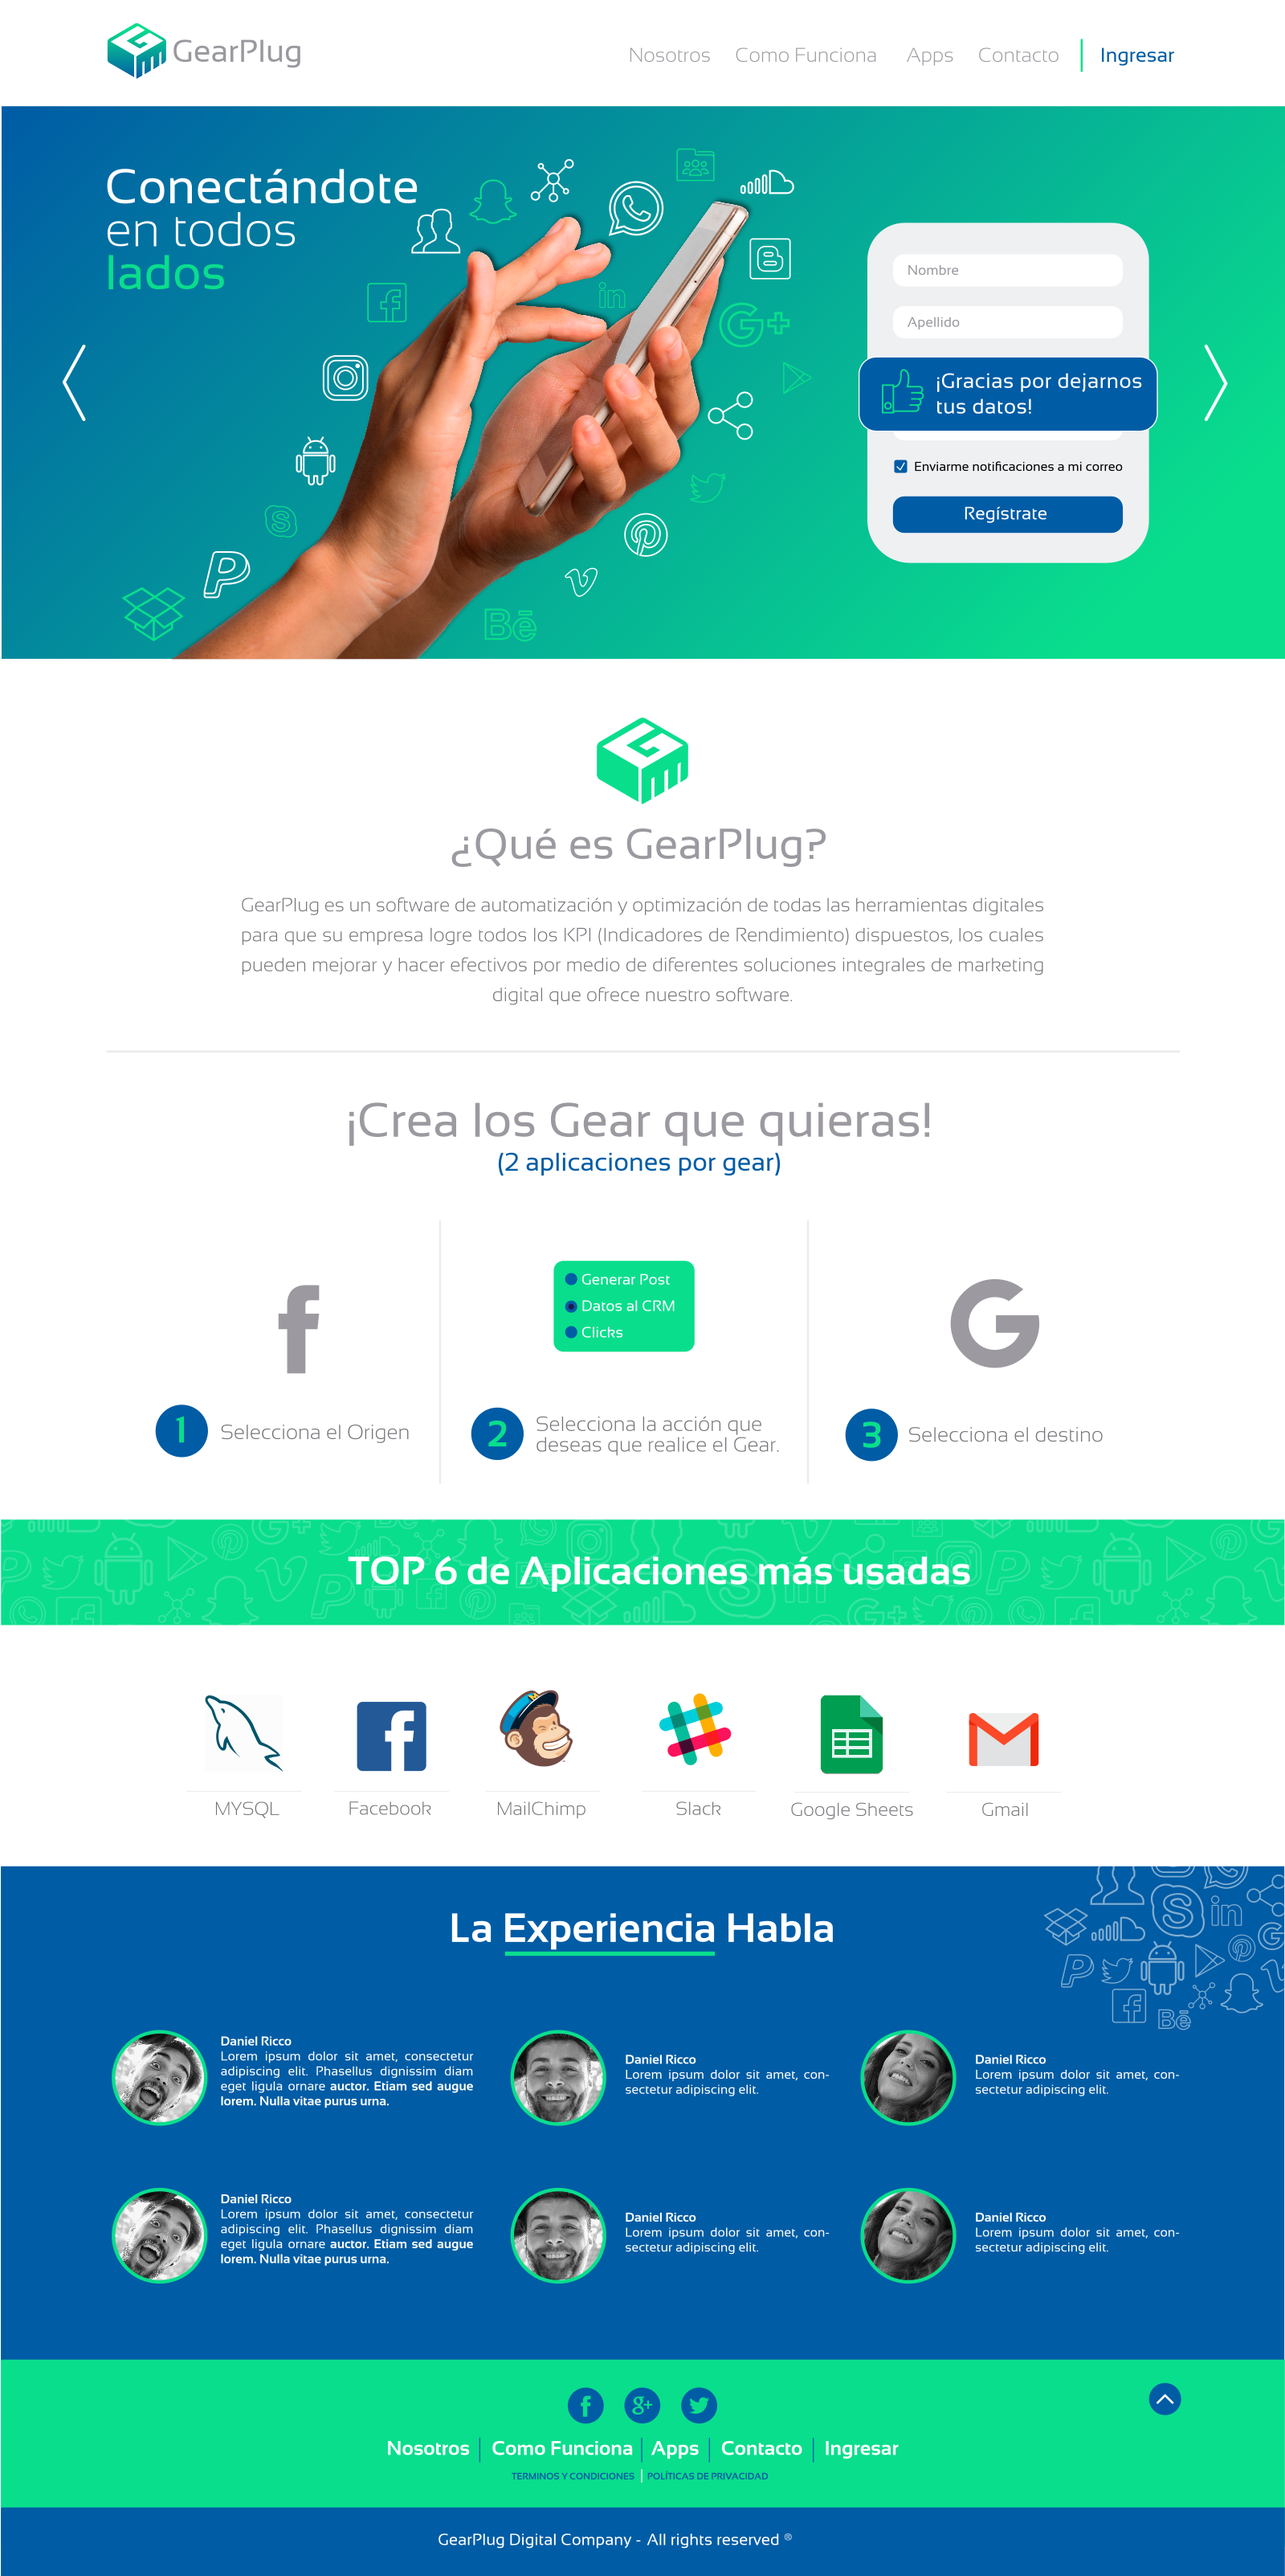
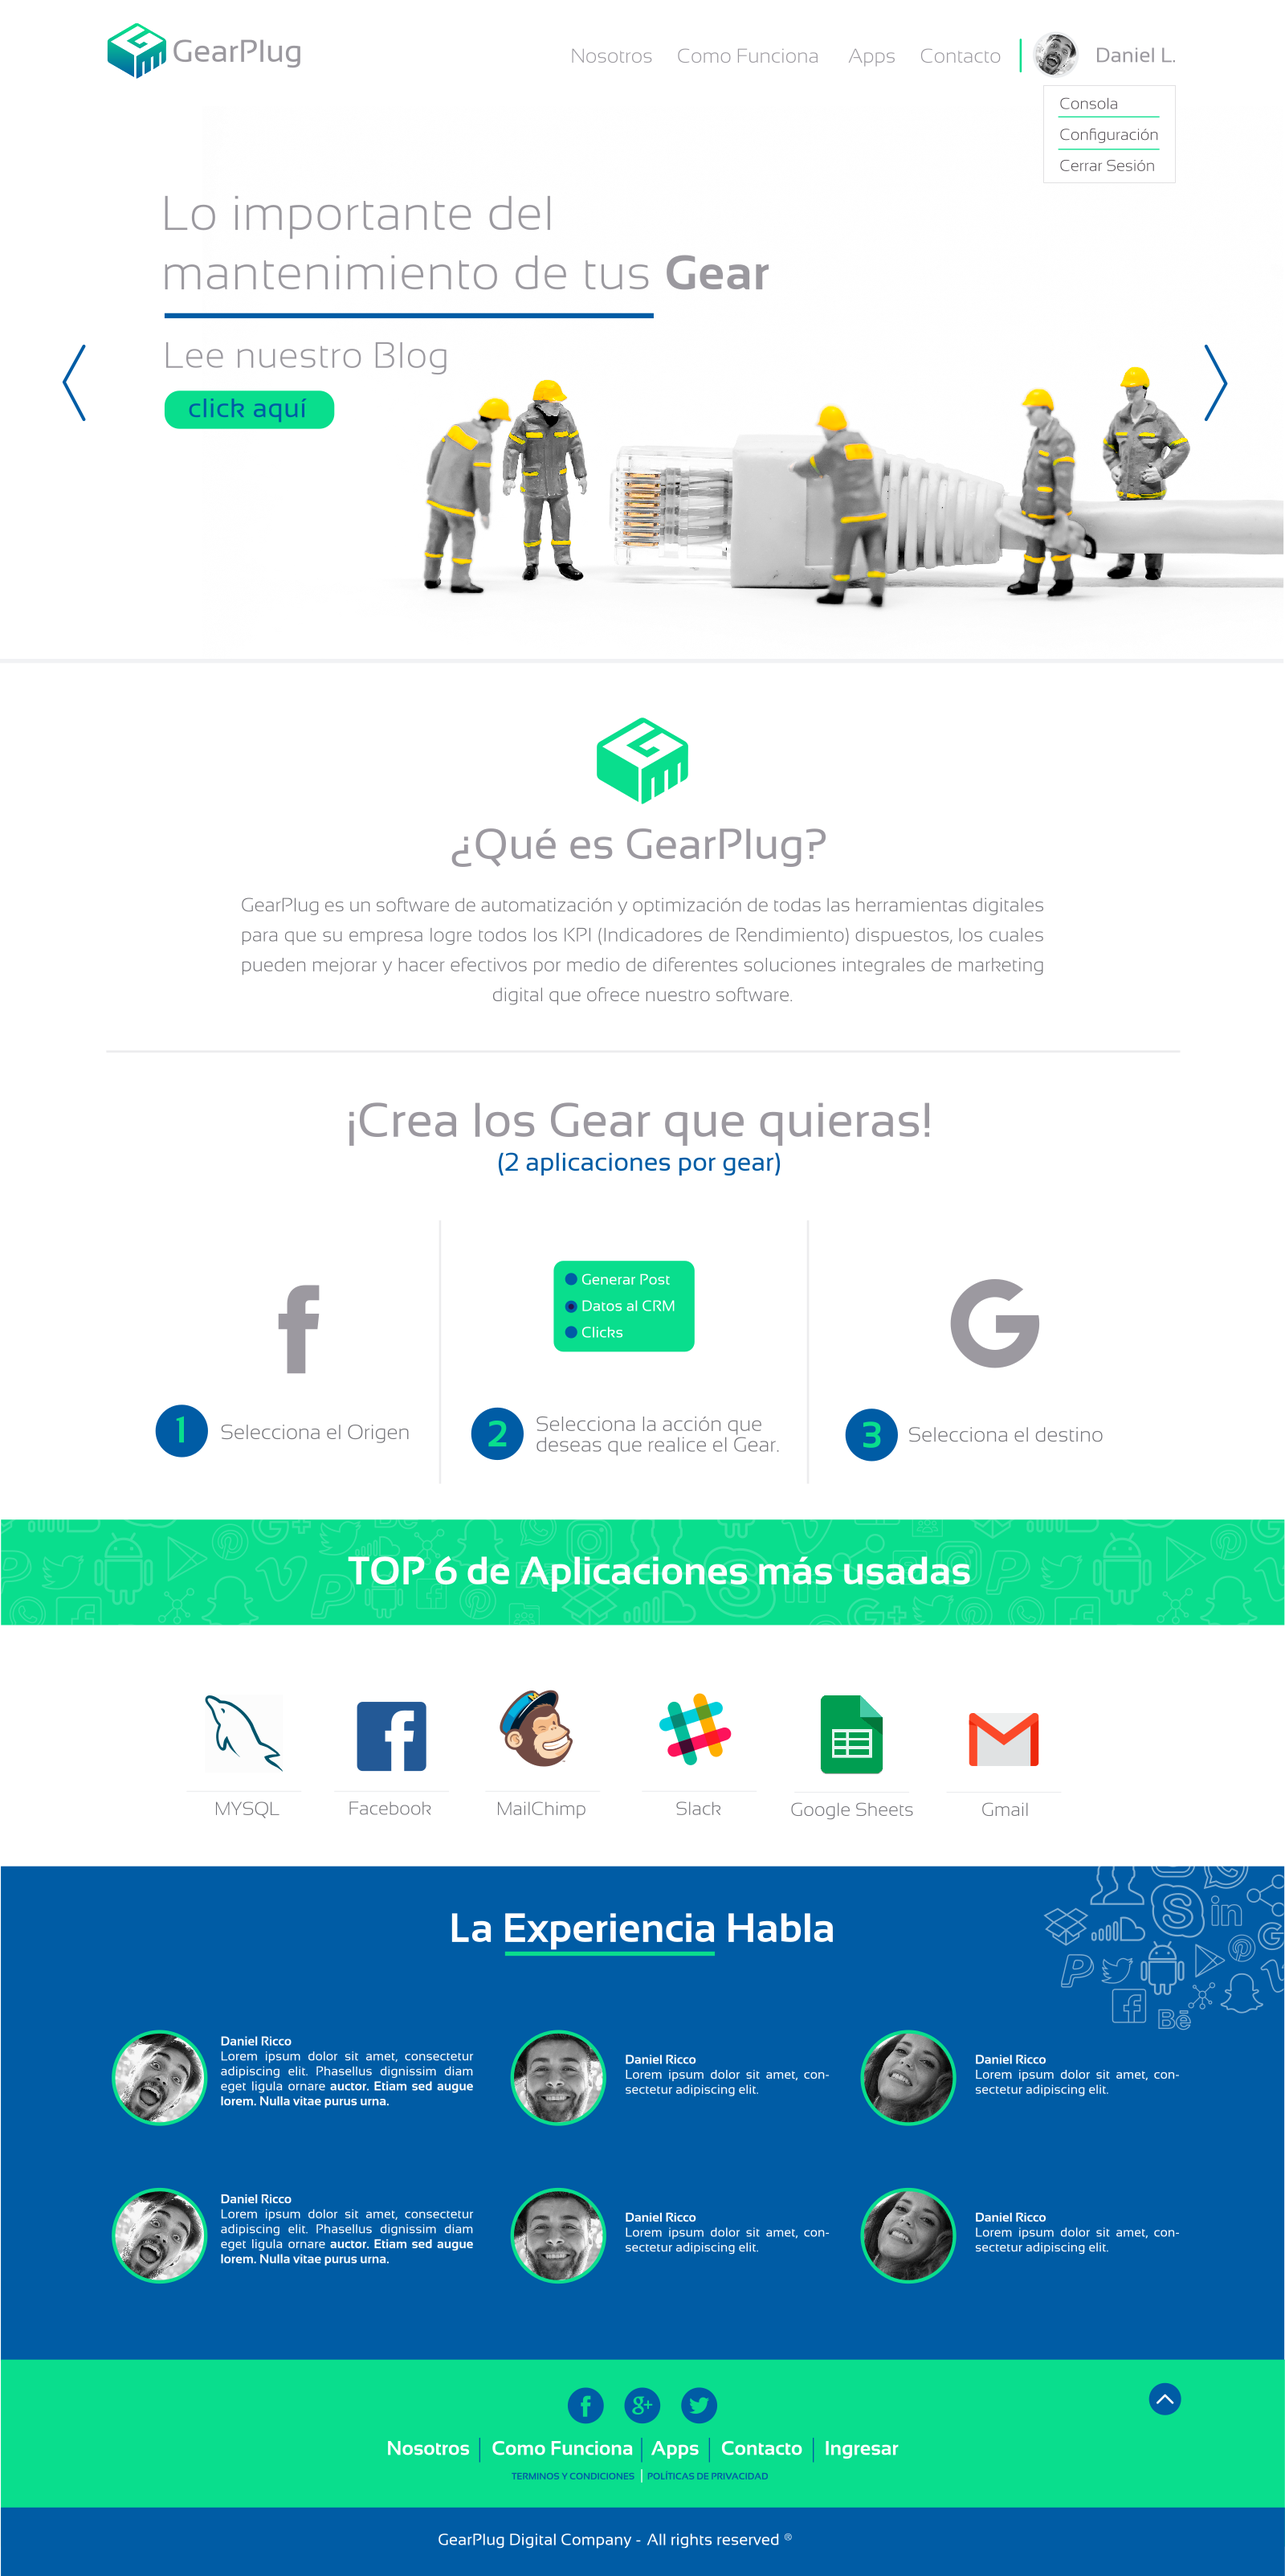
Comentarios y menu - responsive

Changed region(s): [[0.0, 0.0, 1.0, 0.2807]]

diff --git a/templates/landing/index.html b/templates/landing/index.html
@@ -272,33 +272,36 @@
                 return false;
             })
 
-            var showChar = 230;
-            var ellipsestext = "...";
-            var moretext = "Ver más";
-            var lesstext = "Menos";
+            if(window.matchMedia("(min-width: 769px)").matches) {
+                console.log('Entra aqui min');
+                var showChar = 230;
+                var ellipsestext = "...";
+                var moretext = "Ver más";
+                var lesstext = "Menos";
 
-            $('.more').each(function () {
-                var content = $(this).html();
-                if (content.length > showChar) {
-                    var c = content.substr(0, showChar);
-                    var h = content.substr(showChar - 1, content.length - showChar);
-                    var html = c + '<span class="moreellipses">' + ellipsestext + '&nbsp;</span><span class="morecontent"><span>' + h + '</span>&nbsp;&nbsp;<a href="" class="morelink">' + moretext + '</a></span>';
+                $('.more').each(function () {
+                    var content = $(this).html();
+                    if (content.length > showChar) {
+                        var c = content.substr(0, showChar);
+                        var h = content.substr(showChar - 1, content.length - showChar);
+                        var html = c + '<span class="moreellipses">' + ellipsestext + '&nbsp;</span><span class="morecontent"><span>' + h + '</span>&nbsp;&nbsp;<a href="" class="morelink">' + moretext + '</a></span>';
 
-                    $(this).html(html);
-                }
-            });
-            $(".morelink").click(function () {
-                if ($(this).hasClass("less")) {
-                    $(this).removeClass("less");
-                    $(this).html(moretext);
-                } else {
-                    $(this).addClass("less");
-                    $(this).html(lesstext);
-                }
-                $(this).parent().prev().toggle();
-                $(this).prev().toggle();
-                return false;
-            });
+                        $(this).html(html);
+                    }
+                });
+                $(".morelink").click(function () {
+                    if ($(this).hasClass("less")) {
+                        $(this).removeClass("less");
+                        $(this).html(moretext);
+                    } else {
+                        $(this).addClass("less");
+                        $(this).html(lesstext);
+                    }
+                    $(this).parent().prev().toggle();
+                    $(this).prev().toggle();
+                    return false;
+                });
+            }
         })
     </script>
 {% endblock %}

diff --git a/staticfiles/css/landing/style_page.css b/staticfiles/css/landing/style_page.css
@@ -23,12 +23,12 @@
 
 ul.menu{
     list-style-type: none;
-    margin: 2.4% 0 0 0;
+    margin: 2.4% 2.3% 0 0;
 }
 
 ul.menu li{
     display: inline;
-    padding-right: 4.1%;
+    padding-right: 1.5%;
 }
 
 ul.menu.nav li a{
@@ -46,12 +46,13 @@ ul.menu li.menu-login {
     border-left: #09DF8E solid 3px;
     color: #9B999F;
     font-family: 'Sansation';
-    padding: 1.7% 0 1% 3%;
+    padding: 1.3% 0 0 1.2%;
 }
 
 ul.menu li.menu-login a {
     color: #005CA6;
     font-family: 'Sansation';
+    padding-top: 4%;
 }
 
 ul.menu.nav li.menu-login a:hover {
@@ -122,13 +123,13 @@ footer {
 }
 
 li.menu-login.profile img.img-avatar {
-    margin-top: -0.5%;
+    margin-top: -3.6%;
 }
 
 li.menu-login.dropdown.profile.open ul.dropdown-menu {
     border-radius: inherit;
     box-shadow: none;
-    margin: 9.3% 0 0 24.1%;
+    margin: 4.4% 0 0 17.7%;
     padding: 0.7% 0 0.2% 0;
 }
 
@@ -140,6 +141,7 @@ li.menu-login.dropdown.profile.open ul li a {
     color: #4B464B;
     font-family: "Sansation Light";
     font-size: 1.4em;
+    padding: 2.5% 12.3%;
 }
 
 li.menu-login.dropdown.profile ul.dropdown-menu li a:focus, li.menu-login.dropdown.profile ul.dropdown-menu li a:hover {
@@ -178,22 +180,39 @@ li.menu-login.dropdown.profile ul li p{
     border-color: transparent;
 }
 
+ul.navbar-nav {
+    float: right;
+    width: 53.6%;
+}
+
 img.logo_header {
     margin: 11% 0 0 105%;
+}
+
+li.profile.open a{
+    background-color: transparent !important;
 }
 
 @media only screen and (max-width:1600px) {
     li.menu-login.dropdown.profile.open ul.dropdown-menu {
         margin: 10.8% 0 0 22.8%;
     }
+
+    img.logo_header {
+        margin: 11% 0 0 62%;
+    }
 }
 @media only screen and (max-width:1440px) {
     ul.menu {
-        margin: 2.1% 19.5% 0 0;
+        margin: 2.1% 5.5% 0 0;
     }
 
     li.menu-login.dropdown.profile.open ul.dropdown-menu {
         margin: 12.5% 0 0 20.9%;
+    }
+
+    img.logo_header {
+        margin: 11% 0 0 44%;
     }
 }
 

diff --git a/staticfiles/css/landing/index.css b/staticfiles/css/landing/index.css
@@ -414,6 +414,7 @@ a.morelink {
 
     .name11 {
         margin-top: 1.6%;
+        padding-bottom: 10%;
         text-align: justify;
     }
 }
@@ -505,7 +506,14 @@ a.morelink {
 
     img.img-comments {
         margin-bottom: 50%;
-        height: 10%;
+        height: 66%;
+    }
+}
+
+@media only screen and (min-width: 1024px) {
+    .testing {
+        display: table;
+        content: "";
     }
 }
 
@@ -596,7 +604,7 @@ a.morelink {
     }
 
     .title-comments {
-        padding-left: 1%;
+        padding-left: 4%;
         text-align: left;
     }
 
@@ -625,11 +633,13 @@ a.morelink {
         font-size: 2.6em;
         width: 116%;
     }
-}
 
-@media only screen and (min-width: 1024px) {
-    .testing {
-        display: table;
-        content: "";
+    img.img-comments {
+        height: 11%;
+    }
+
+    .name11 {
+        height: 20%;
+        padding-bottom: 0;
     }
 }

diff --git a/templates/layouts/page_base.html b/templates/layouts/page_base.html
@@ -59,7 +59,8 @@
                                            role="button" aria-haspopup="true" aria-expanded="false">
                                             <img src="{% static 'img/landing/avatar.png' %}" class="img-avatar">
                                             <div class="text-avatar">
-                                                {{ request.user.first_name|default:request.user.email }}</div>
+                                                {{ request.user.first_name|default:request.user.email }}
+                                            </div>
                                         </a>
                                         <ul class="dropdown-menu">
                                             <li><a href="{% url 'home:dashboard' %}"><p
